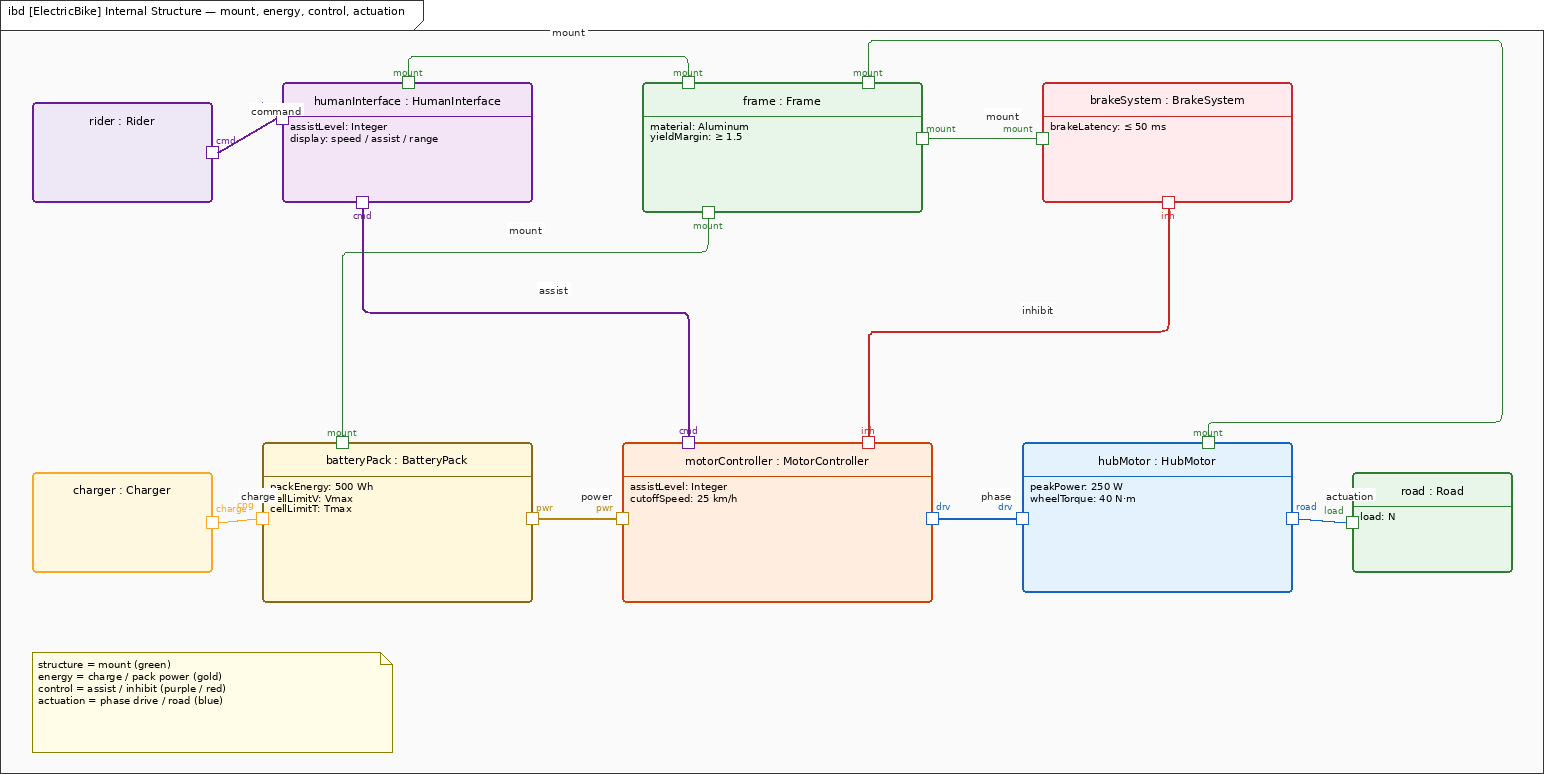
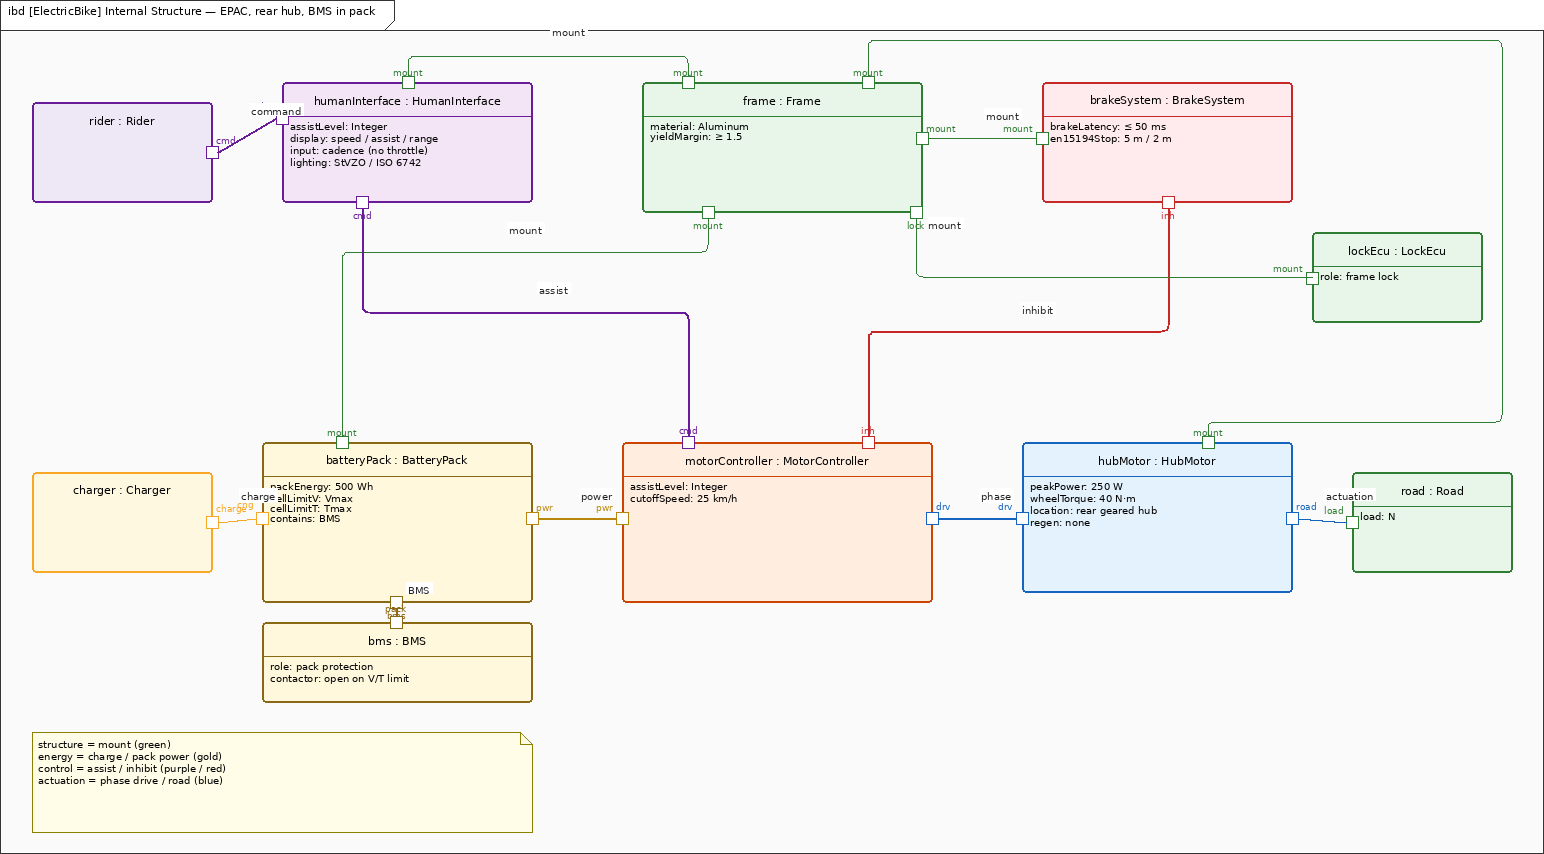
Render e-bike and Apollo ground/crew figures after review
Route the GSFC–MSFN ground connector around site 642B, mark CMP as
having no PLSS/OPS, and commit the publication PNGs.

diff --git a/tests/test_e_bike_example.py b/tests/test_e_bike_example.py
@@ -178,7 +178,7 @@ class EBikeExampleTests(unittest.TestCase):
         self.assertEqual(rels["allocateSafetyToSensors"]["target"], "ElectricBike.CadenceSensor")
         range_text = defs["ElectricBike.rangeRequirement"]["text"]
         self.assertIn("Tour", range_text)
-        self.assertNotIn("PAS-1", range_text)
+        self.assertIn("Not Eco / PAS-1", range_text)
         self.assertIn("8.3 Wh/km Tour", defs["ElectricBike.PAR.energyPerKm"]["name"])
         root_props = {p["name"]: p["type"] for p in defs["ElectricBike"]["compartments"]["properties"]}
         self.assertEqual(root_props["classification"], "EPAC / EN 15194")
